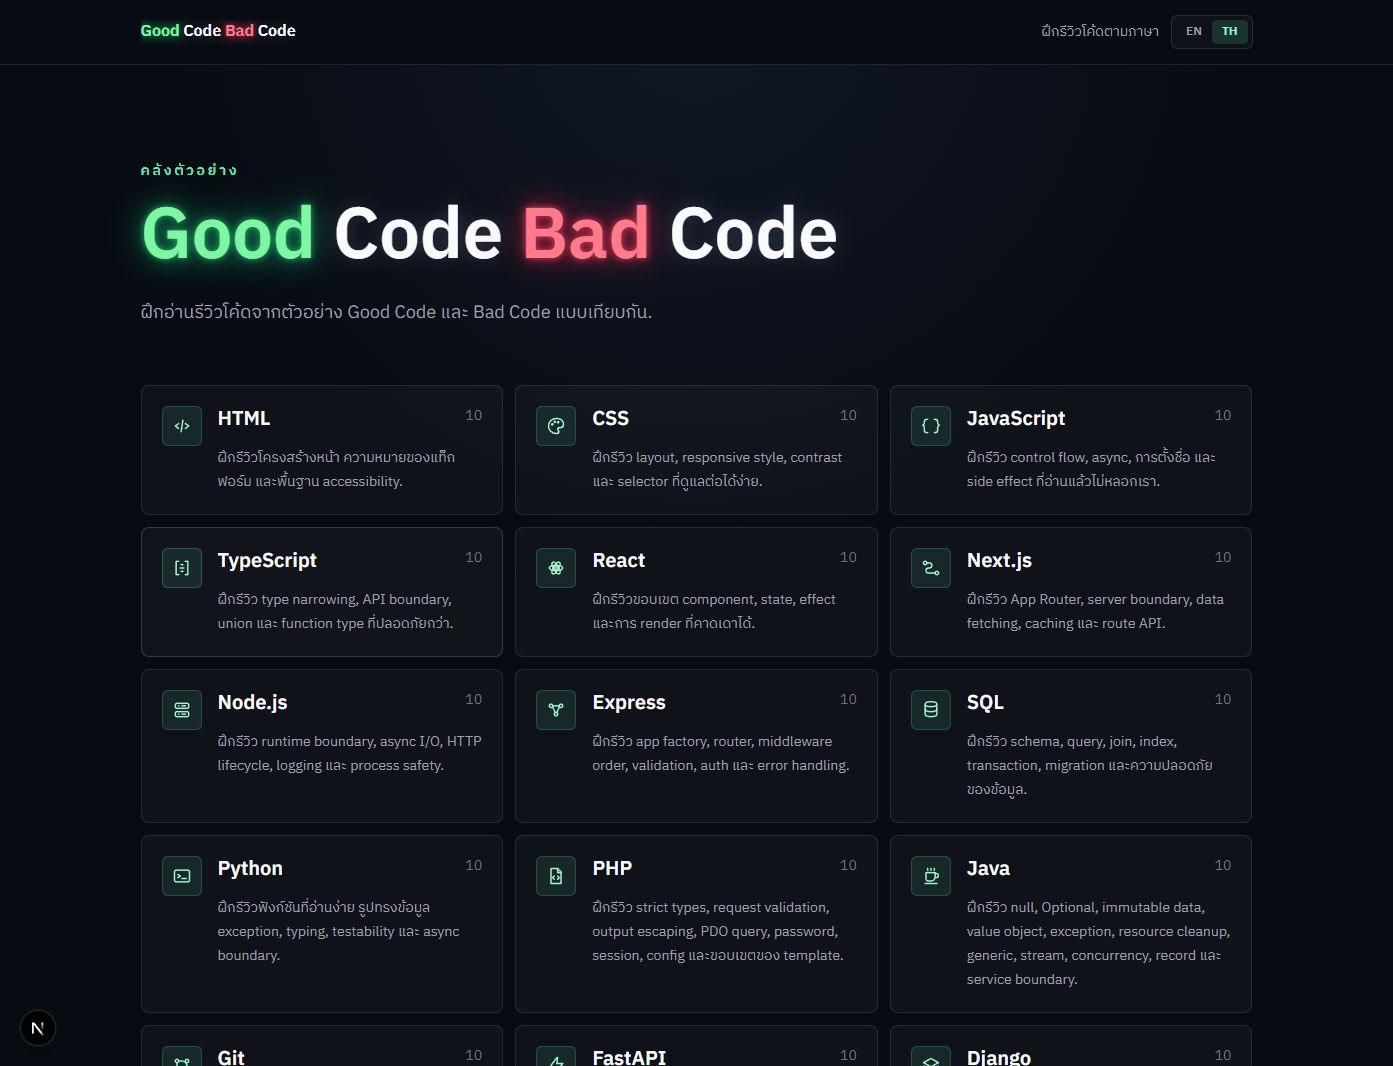
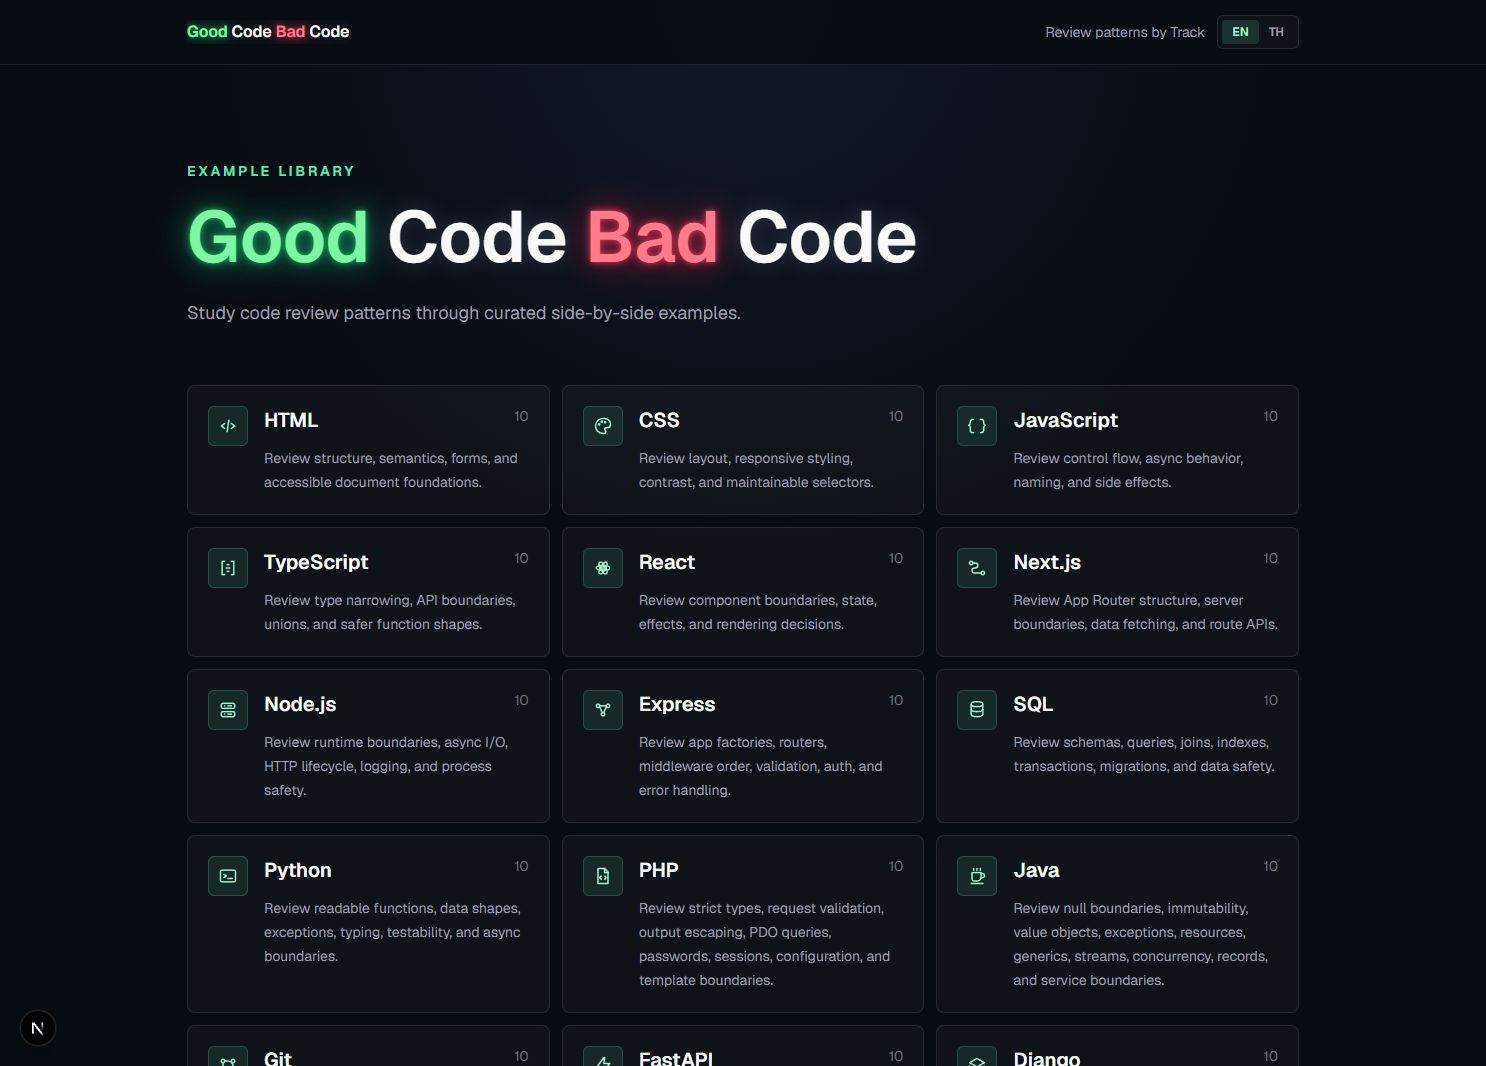
feat: unify review notes layout

diff --git a/components/lesson/review-notes.tsx b/components/lesson/review-notes.tsx
@@ -2,7 +2,25 @@
 
 import type { ReactNode } from "react";
 import { useLanguage } from "@/components/language/language-provider";
+import type { ReviewNotesContent } from "@/lib/content/schema";
 import { uiCopy, type LessonThaiTranslation } from "@/lib/i18n/translations";
+
+function renderInlineMarkdown(text: string): ReactNode {
+  return text.split(/(`[^`]+`)/g).map((part, index) => {
+    if (part.startsWith("`") && part.endsWith("`")) {
+      return (
+        <code
+          key={`${index}-${part}`}
+          className="rounded bg-white/10 px-1 py-0.5 font-mono text-[0.9em] text-zinc-100"
+        >
+          {part.slice(1, -1)}
+        </code>
+      );
+    }
+
+    return part;
+  });
+}
 
 function ReviewPoint({
   label,
@@ -21,14 +39,20 @@ function ReviewPoint({
   return (
     <article className={`rounded-lg border p-4 ${toneClass}`}>
       <h3 className="text-sm font-semibold">{label}</h3>
-      <p className="mt-3 leading-7 text-zinc-300">{paragraph}</p>
+      <p className="mt-3 leading-7 text-zinc-300">
+        {renderInlineMarkdown(paragraph)}
+      </p>
     </article>
   );
 }
 
 function WhatToReviewGrid({
+  badLabel,
+  goodLabel,
   paragraphs,
 }: {
+  badLabel: string;
+  goodLabel: string;
   paragraphs: readonly string[];
 }) {
   if (paragraphs.length < 2) {
@@ -36,7 +60,7 @@ function WhatToReviewGrid({
       <div className="mt-4 max-w-3xl">
         {paragraphs.map((paragraph) => (
           <p key={paragraph} className="mt-4 leading-7 text-zinc-300">
-            {paragraph}
+            {renderInlineMarkdown(paragraph)}
           </p>
         ))}
       </div>
@@ -49,12 +73,12 @@ function WhatToReviewGrid({
     <>
       <div className="mt-4 grid min-w-0 gap-4 lg:grid-cols-2">
         <ReviewPoint
-          label={uiCopy.th.goodCode}
+          label={goodLabel}
           paragraph={paragraphs[0]}
           tone="good"
         />
         <ReviewPoint
-          label={uiCopy.th.badCode}
+          label={badLabel}
           paragraph={paragraphs[1]}
           tone="bad"
         />
@@ -63,7 +87,7 @@ function WhatToReviewGrid({
         <div className="mt-4 max-w-3xl">
           {extraParagraphs.map((paragraph) => (
             <p key={paragraph} className="mt-4 leading-7 text-zinc-300">
-              {paragraph}
+              {renderInlineMarkdown(paragraph)}
             </p>
           ))}
         </div>
@@ -72,41 +96,82 @@ function WhatToReviewGrid({
   );
 }
 
+function ReviewNoteCallout({
+  title,
+  paragraphs,
+}: {
+  title: string;
+  paragraphs: readonly string[];
+}) {
+  return (
+    <aside className="mt-10 w-full rounded-lg border border-amber-300/25 bg-amber-300/[0.045] p-4 shadow-[0_0_32px_rgb(245_158_11_/_0.08)]">
+      <div className="flex min-w-0 gap-3">
+        <span
+          aria-hidden="true"
+          className="mt-1 flex h-9 w-9 shrink-0 items-center justify-center rounded-md border border-amber-300/30 bg-amber-300/[0.12] text-amber-200"
+        >
+          <svg
+            className="h-4 w-4"
+            fill="none"
+            stroke="currentColor"
+            strokeLinecap="round"
+            strokeLinejoin="round"
+            strokeWidth="2"
+            viewBox="0 0 24 24"
+          >
+            <path d="M12 3v2" />
+            <path d="M18.36 5.64 16.95 7.05" />
+            <path d="M21 12h-2" />
+            <path d="M5 12H3" />
+            <path d="M7.05 7.05 5.64 5.64" />
+            <path d="M9 18h6" />
+            <path d="M10 21h4" />
+            <path d="M8 12a4 4 0 1 1 8 0c0 1.2-.46 2.12-1.16 2.83-.5.51-.84 1.18-.84 1.89V17h-4v-.28c0-.71-.34-1.38-.84-1.89A3.89 3.89 0 0 1 8 12Z" />
+          </svg>
+        </span>
+        <div className="min-w-0">
+          <h2 className="text-xl font-semibold text-amber-100">{title}</h2>
+          {paragraphs.map((paragraph) => (
+            <p key={paragraph} className="mt-3 leading-7 text-zinc-200">
+              {renderInlineMarkdown(paragraph)}
+            </p>
+          ))}
+        </div>
+      </div>
+    </aside>
+  );
+}
+
 export function ReviewNotes({
-  children,
+  englishNotes,
   translation,
 }: {
-  children: ReactNode;
+  englishNotes: ReviewNotesContent;
   translation: LessonThaiTranslation;
 }) {
   const { language } = useLanguage();
   const copy = uiCopy[language];
+  const notes = language === "th" ? translation : englishNotes;
 
   return (
     <section className="mt-12">
       <h2 className="text-sm font-semibold uppercase tracking-[0.18em] text-zinc-500">
         {copy.reviewNotes}
       </h2>
-      {language === "th" ? (
-        <div className="mt-4">
-          <h2 className="mt-10 text-2xl font-semibold text-zinc-50">
-            {uiCopy.th.whatToReview}
-          </h2>
-          <WhatToReviewGrid paragraphs={translation.whatToReview} />
-          <h2 className="mt-10 text-2xl font-semibold text-zinc-50">
-            {uiCopy.th.reviewNotesSection}
-          </h2>
-          <div className="max-w-3xl">
-            {translation.reviewNotes.map((paragraph) => (
-              <p key={paragraph} className="mt-4 leading-7 text-zinc-300">
-                {paragraph}
-              </p>
-            ))}
-          </div>
-        </div>
-      ) : (
-        <div className="mt-4 max-w-3xl">{children}</div>
-      )}
+      <div className="mt-4">
+        <h2 className="mt-10 text-2xl font-semibold text-zinc-50">
+          {copy.whatToReview}
+        </h2>
+        <WhatToReviewGrid
+          badLabel={copy.badCode}
+          goodLabel={copy.goodCode}
+          paragraphs={notes.whatToReview}
+        />
+        <ReviewNoteCallout
+          paragraphs={notes.reviewNotes}
+          title={copy.reviewNotesSection}
+        />
+      </div>
     </section>
   );
 }

diff --git a/lib/content/review-notes.ts b/lib/content/review-notes.ts
@@ -1,0 +1,74 @@
+import { readFile } from "node:fs/promises";
+import path from "node:path";
+import type { ReviewNotesContent } from "./schema";
+
+function escapeRegExp(value: string): string {
+  return value.replace(/[.*+?^${}()|[\]\\]/g, "\\$&");
+}
+
+function splitParagraphs(section: string): string[] {
+  return section
+    .trim()
+    .split(/\n\s*\n/)
+    .map((paragraph) => paragraph.replace(/\s*\n\s*/g, " ").trim())
+    .filter(Boolean);
+}
+
+function readSection(
+  markdown: string,
+  heading: "What to review" | "Review notes",
+  source: string,
+): string[] {
+  const normalizedMarkdown = markdown.replace(/\r\n/g, "\n");
+  const headingPattern = new RegExp(`^## ${escapeRegExp(heading)}\\s*$`, "m");
+  const headingMatch = headingPattern.exec(normalizedMarkdown);
+
+  if (!headingMatch) {
+    throw new Error(`${source}: missing "${heading}" review section`);
+  }
+
+  const sectionStart = headingMatch.index + headingMatch[0].length;
+  const remainingMarkdown = normalizedMarkdown.slice(sectionStart);
+  const nextHeadingIndex = remainingMarkdown.search(/^##\s+/m);
+  const rawSection =
+    nextHeadingIndex === -1
+      ? remainingMarkdown
+      : remainingMarkdown.slice(0, nextHeadingIndex);
+  const paragraphs = splitParagraphs(rawSection);
+
+  if (paragraphs.length === 0) {
+    throw new Error(`${source}: "${heading}" review section is empty`);
+  }
+
+  return paragraphs;
+}
+
+export function parseReviewNotesMarkdown(
+  markdown: string,
+  source = "lesson markdown",
+): ReviewNotesContent {
+  return {
+    whatToReview: readSection(markdown, "What to review", source),
+    reviewNotes: readSection(markdown, "Review notes", source),
+  };
+}
+
+export async function readLessonReviewNotes(
+  source: string,
+): Promise<ReviewNotesContent> {
+  const normalizedSource = source.replaceAll("\\", "/");
+
+  if (
+    !normalizedSource.startsWith("content/") ||
+    normalizedSource.includes("..")
+  ) {
+    throw new Error(`${source}: review notes source must live inside content/`);
+  }
+
+  const markdown = await readFile(
+    path.join(process.cwd(), "content", normalizedSource.slice(8)),
+    "utf8",
+  );
+
+  return parseReviewNotesMarkdown(markdown, source);
+}

diff --git a/tests/content/review-notes.test.ts b/tests/content/review-notes.test.ts
@@ -1,0 +1,15 @@
+import assert from "node:assert/strict";
+import { readFile } from "node:fs/promises";
+import { test } from "node:test";
+import { parseReviewNotesMarkdown } from "../../lib/content/review-notes";
+
+test("parseReviewNotesMarkdown extracts review notes from lesson MDX", async () => {
+  const source = "content/html/accessible-form-labels.mdx";
+  const markdown = await readFile(source, "utf8");
+  const reviewNotes = parseReviewNotesMarkdown(markdown, source);
+
+  assert.equal(reviewNotes.whatToReview.length, 2);
+  assert.equal(reviewNotes.reviewNotes.length, 1);
+  assert.match(reviewNotes.whatToReview[0] ?? "", /persistent accessible name/);
+  assert.match(reviewNotes.reviewNotes[0] ?? "", /Placeholder-only fields/);
+});

diff --git a/app/tracks/[track]/[lesson]/page.tsx b/app/tracks/[track]/[lesson]/page.tsx
@@ -50,7 +50,6 @@ export default async function LessonPage({
   const lessonNavigation = getLessonNavigation(track.slug, lesson.slug);
   const lessonTranslation = getLessonThaiTranslation(track.slug, lesson.slug);
   const highlightedLesson = await highlightLesson(lesson, lessonTranslation);
-  const LessonNotes = highlightedLesson.Component;
 
   if (!lessonNavigation || !lessonTranslation) notFound();
 
@@ -75,9 +74,10 @@ export default async function LessonPage({
         />
       </section>
 
-      <ReviewNotes translation={lessonTranslation}>
-        <LessonNotes />
-      </ReviewNotes>
+      <ReviewNotes
+        englishNotes={highlightedLesson.reviewNotes}
+        translation={lessonTranslation}
+      />
       <TakeawayList
         takeaways={highlightedLesson.takeaways}
         translatedTakeaways={lessonTranslation.takeaways}

diff --git a/lib/content/lessons.ts b/lib/content/lessons.ts
@@ -5,7 +5,8 @@ import { lessonSources } from "@/content/lesson-registry";
 import type { LessonThaiTranslation } from "@/lib/i18n/translations";
 import { replaceCodeCommentLines } from "./code-comments";
 import { getTrack, tracks, type TrackSlug } from "./tracks";
-import type { CodeSample, LessonRecord } from "./schema";
+import { readLessonReviewNotes } from "./review-notes";
+import type { CodeSample, LessonRecord, ReviewNotesContent } from "./schema";
 import { buildLessonNavigation } from "./navigation";
 import type { LessonNavigation } from "./navigation";
 
@@ -22,6 +23,7 @@ export type HighlightedCodeSample = CodeSample & {
 export type HighlightedLesson = LessonRecord & {
   goodCode: HighlightedCodeSample;
   badCode: HighlightedCodeSample;
+  reviewNotes: ReviewNotesContent;
 };
 
 const sortedLessons = [...lessonSources].sort((a, b) => {
@@ -116,14 +118,16 @@ export async function highlightLesson(
   lesson: LessonRecord,
   translation?: LessonThaiTranslation,
 ): Promise<HighlightedLesson> {
-  const [goodCode, badCode] = await Promise.all([
+  const [goodCode, badCode, reviewNotes] = await Promise.all([
     highlightCode(lesson.goodCode, translation?.codeComments?.goodCode),
     highlightCode(lesson.badCode, translation?.codeComments?.badCode),
+    readLessonReviewNotes(lesson.source),
   ]);
 
   return {
     ...lesson,
     goodCode,
     badCode,
+    reviewNotes,
   };
 }

diff --git a/lib/content/schema.ts b/lib/content/schema.ts
@@ -35,7 +35,13 @@ export type LessonMetadata = {
 
 export type LessonRecord = LessonMetadata & {
   slug: string;
+  source: string;
   Component: ComponentType;
+};
+
+export type ReviewNotesContent = {
+  whatToReview: string[];
+  reviewNotes: string[];
 };
 
 const codeLanguages = new Set<CodeLanguage>([

diff --git a/lib/i18n/translations.ts b/lib/i18n/translations.ts
@@ -62,7 +62,7 @@ export const uiCopy = {
     notFoundSummary: "ยังไม่มีตัวอย่างรีวิวโค้ดนี้ในคลัง.",
     backToLibrary: "กลับไปหน้ารวม",
     whatToReview: "ควรรีวิวอะไร",
-    reviewNotesSection: "โน้ตรีวิว",
+    reviewNotesSection: "ข้อควรสังเกตตอนรีวิว",
   },
 } as const satisfies Record<Language, Record<string, string>>;
 

diff --git a/content/lesson-registry.ts b/content/lesson-registry.ts
@@ -1639,5 +1639,6 @@ const rawLessons: RawLesson[] = [
 export const lessonSources: LessonRecord[] = rawLessons.map((lesson) => ({
   ...validateLessonMetadata(lesson.metadata, lesson.source),
   slug: lesson.slug,
+  source: lesson.source,
   Component: lesson.Component,
 }));

diff --git a/README.md b/README.md
@@ -12,6 +12,8 @@ The first version is an **Example Library**, not a quiz platform or interactive 
 
 ## Screenshots
 
+Current UI snapshots from the example library:
+
 Home page:
 
 ![Good Code Bad Code home page](public/screenshots/home.png)
@@ -22,7 +24,7 @@ Track page:
 
 Lesson page:
 
-![Good Code and Bad Code lesson comparison](public/screenshots/lesson-comparison.png)
+![Lesson page with Good Code and Bad Code review notes](public/screenshots/lesson-comparison.png)
 
 ## Features
 